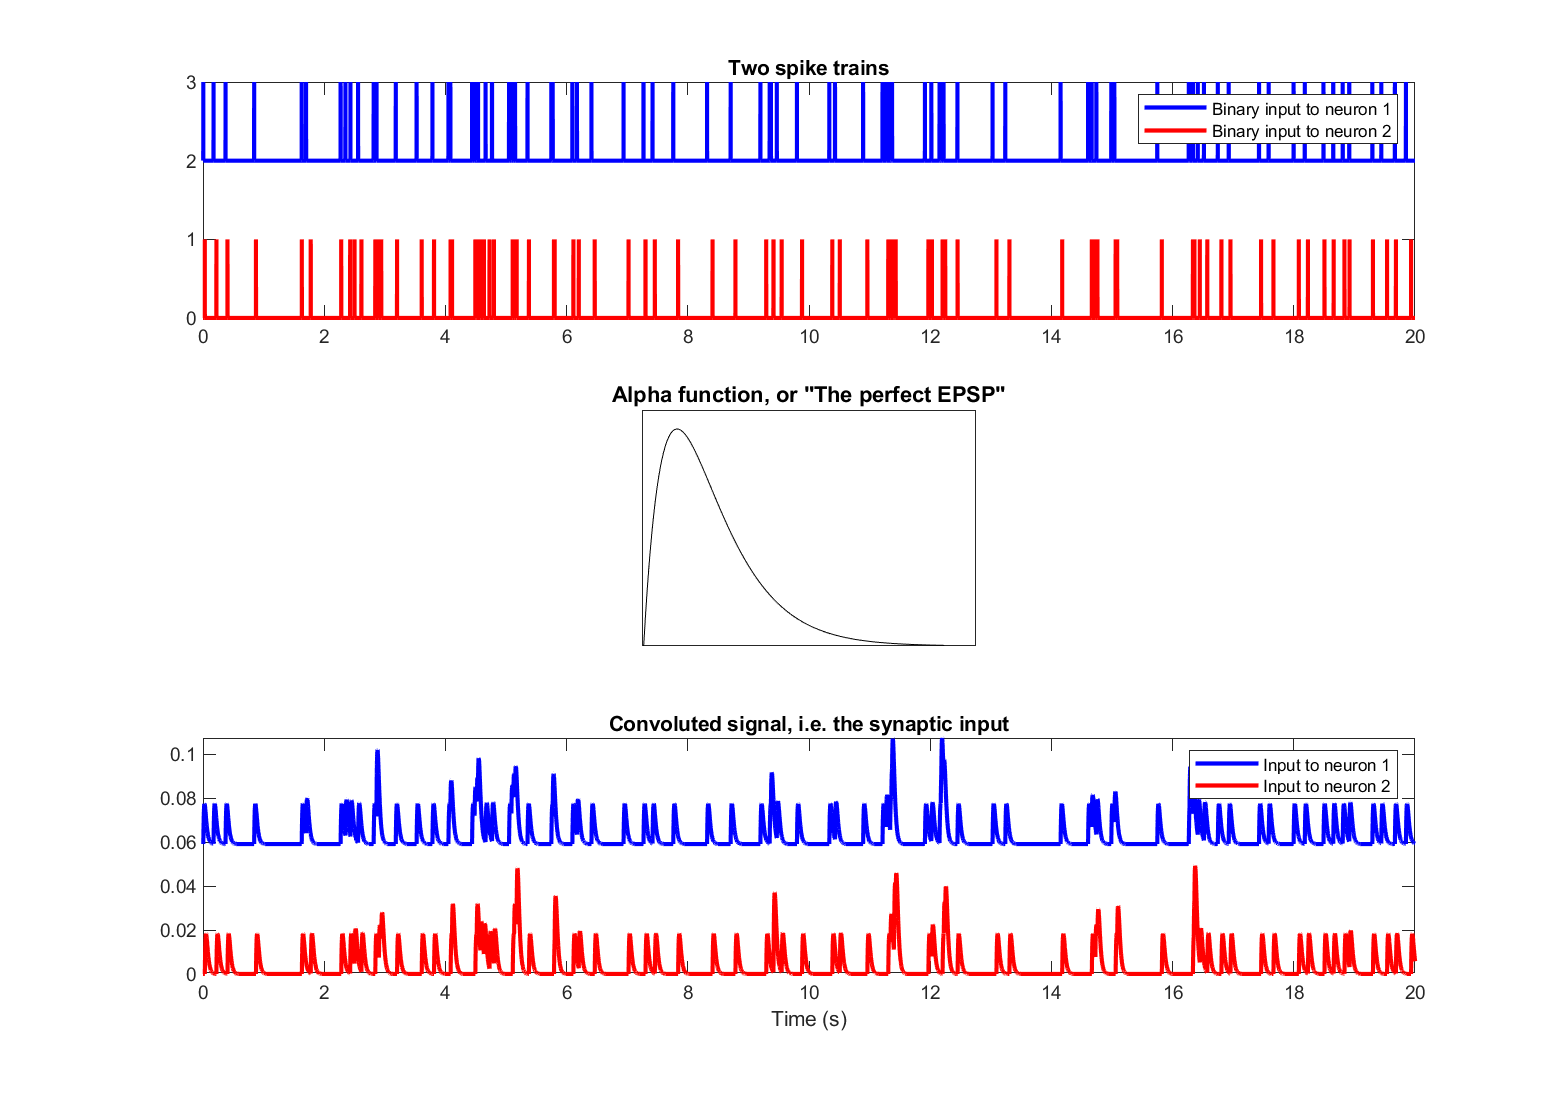
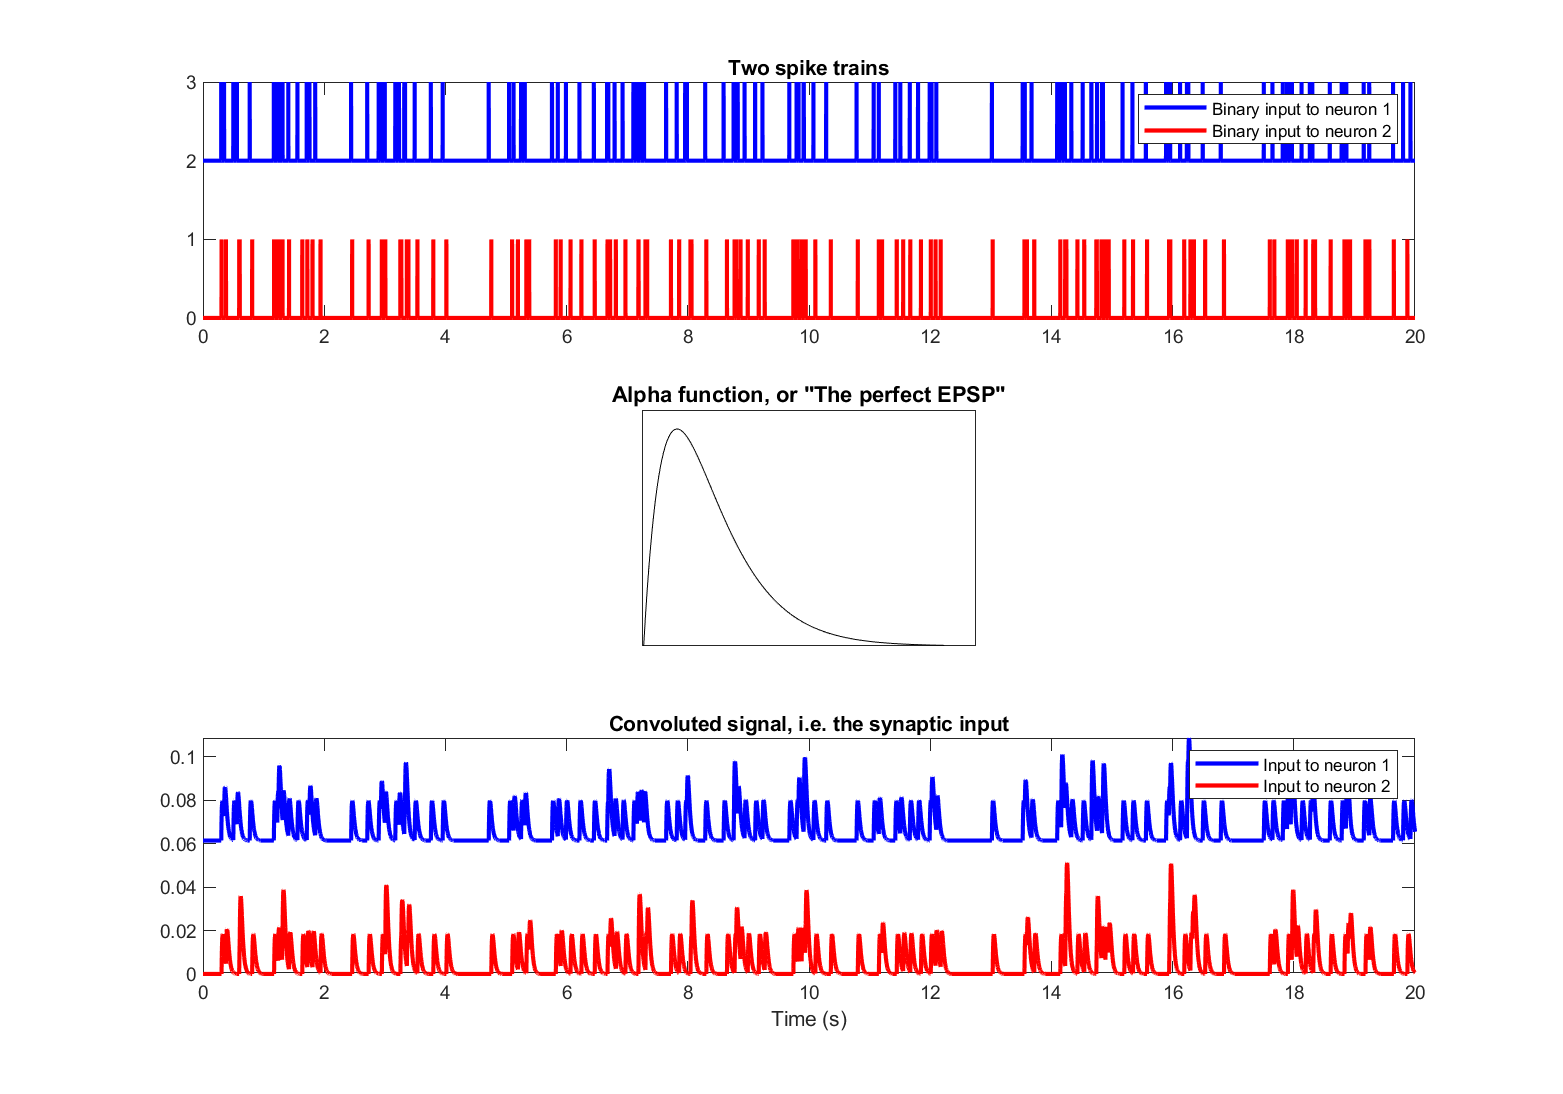
patch 2

Changed region(s): [[0.0921, 0.6837, 0.9213, 0.9013], [0.1228, 0.2176, 0.9213, 0.3108], [0.1228, 0.0622, 0.9213, 0.1554]]

diff --git a/model/TestingCrossCorrelation/simulate.m b/model/TestingCrossCorrelation/simulate.m
@@ -28,7 +28,8 @@ P.vp   = 2;    % STD of spiking
 P.lambda = 0.2; % average timing between spikes in seconds 
 P.jit    = 0.1; % std to jitter spike timings
 
-P.buf  = 5;    % amount of buffer time before/after spiking
+P.buf  = 5;    % amount of buffer time before/after spiking. Recommend a 
+               % healthy window
 
 %% Presim calculations and initializations
 
@@ -61,6 +62,14 @@ switch P.traintoggle
     case 3
     [sumt1] = GenSpikPoisT(P);
     [sumt2] = GenSpikPoisT(P);
+end
+
+% it's possible t1 and t2 are different sizes if its the poisson trains
+% just need to fix that
+if length(sumt1)~=length(sumt2) 
+    m = min([length(sumt1) length(sumt2)]);
+    sumt1 = sumt1(1:m);
+    sumt2 = sumt2(1:m);
 end
 
 % convule the spike trains an alpha function
